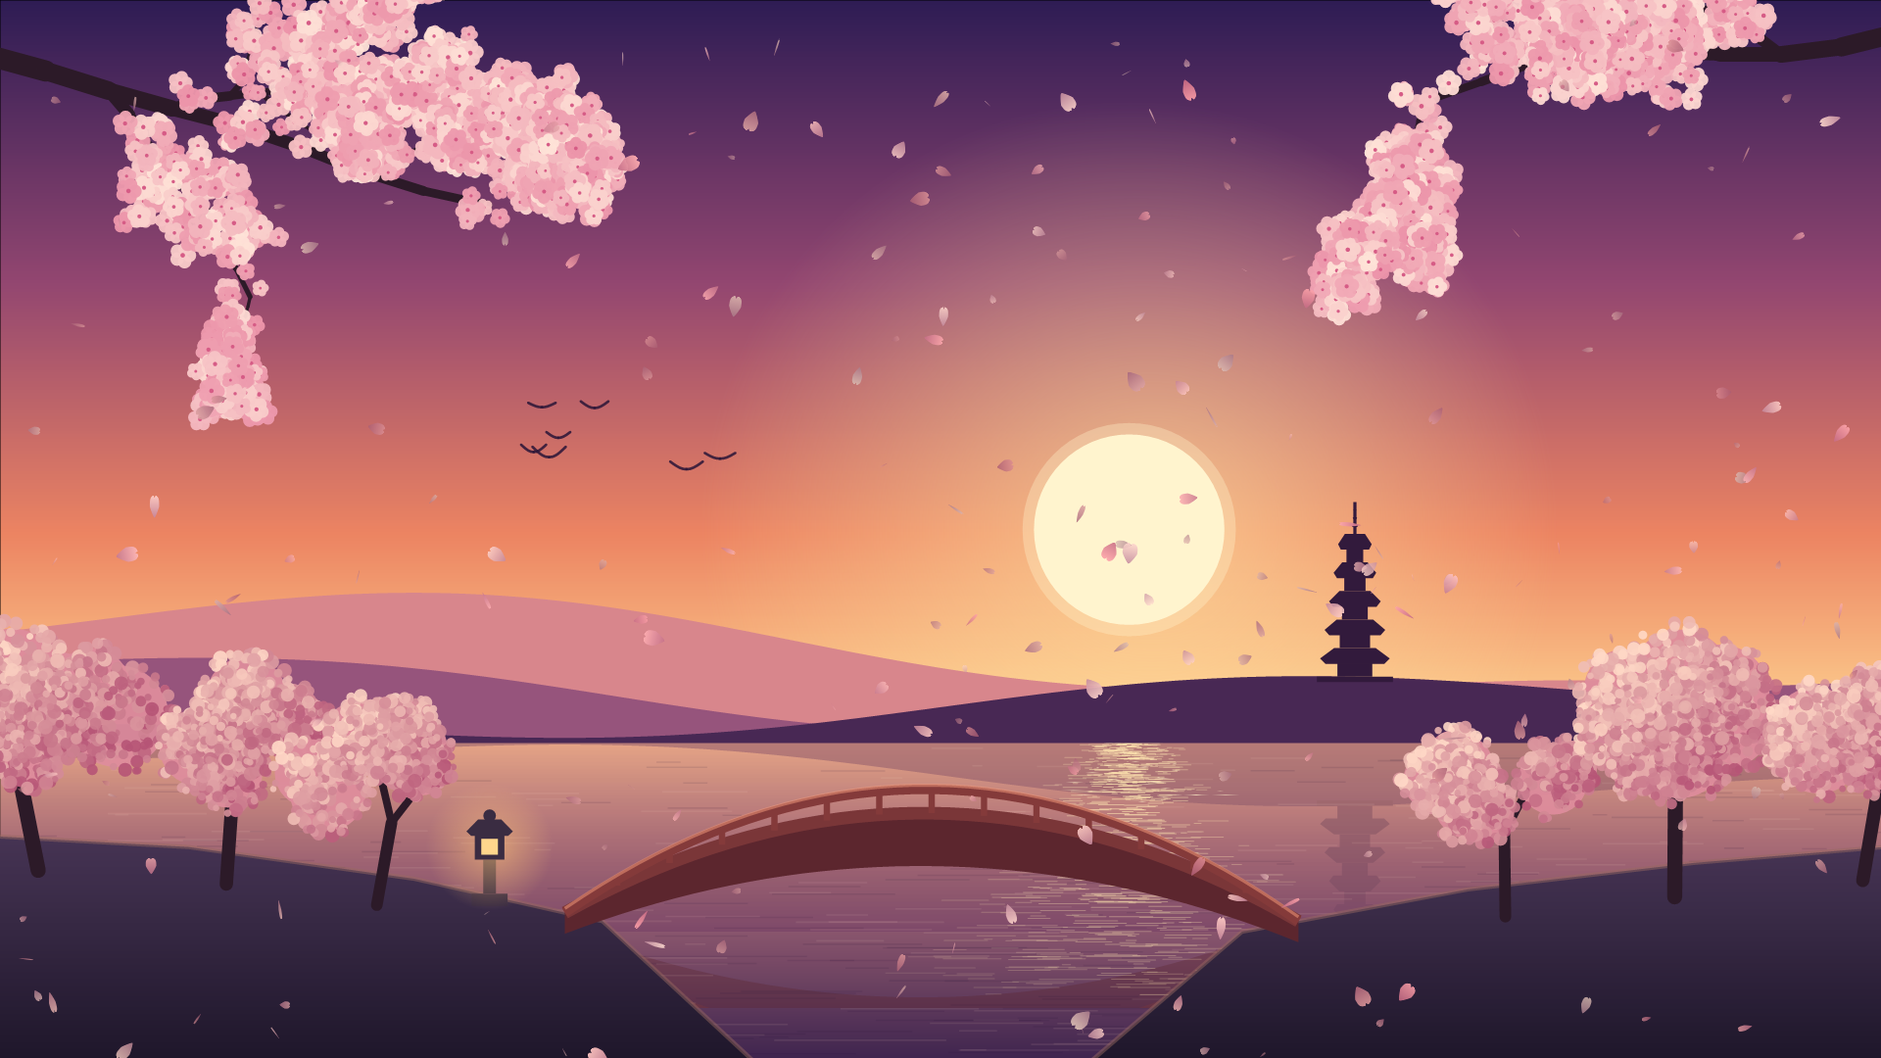
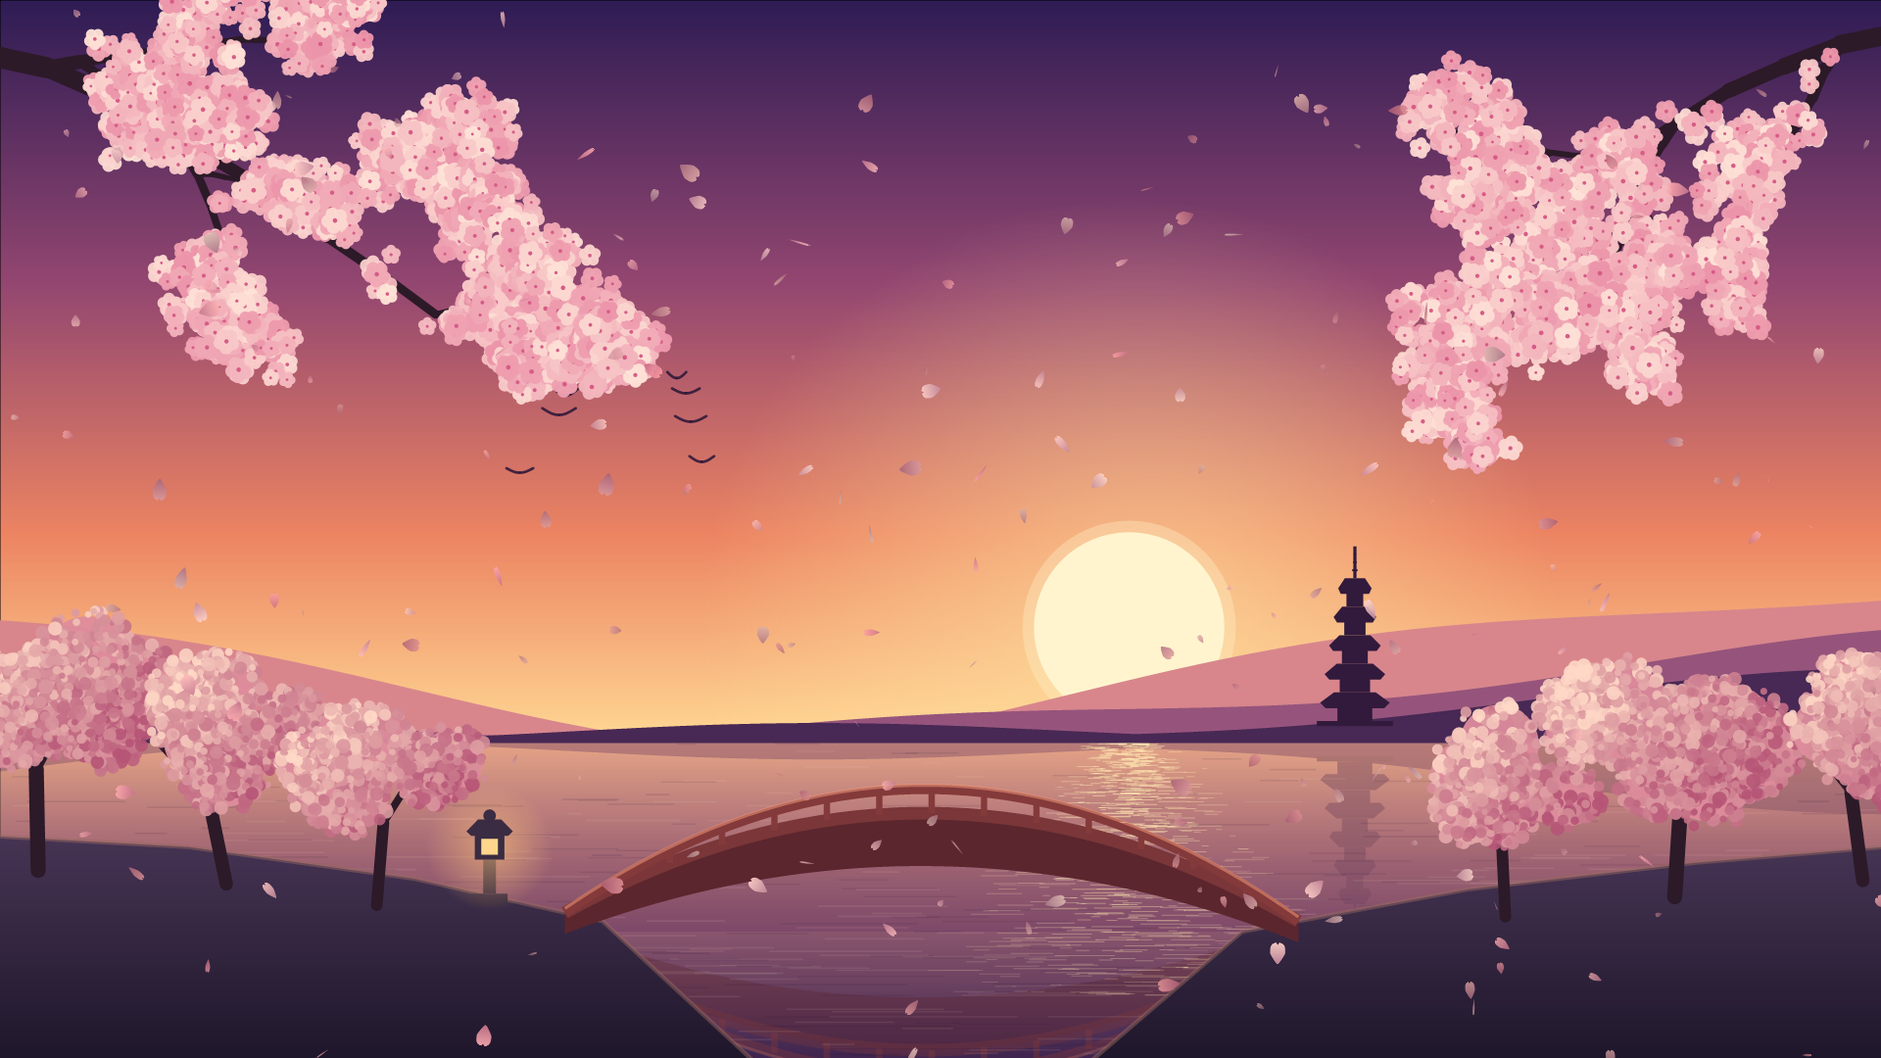
Fix the Sakura Dusk nemesis findings
Glints checked no pixels, so a golden streak could pulse on the bridge
railing for a whole session (about half of all runs at 16:9). Now each
glint lights only bright water, and the glint strip covers the whole
sun reflection instead of a thin band above the bridge. The sun is
placed on the far ridge under it, so it always sets behind the hills.
The bridge reflection is no longer cut off by a straight line. Petal
sizes, the bank rim, and glint lengths use the size unit (height, or
less on a tall screen) like the rest of the scenery. SakuraDusk is in
the solution file, the scripts' help text lists it, and the docs now
describe what the code does, with re-measured timings.

diff --git a/src/SakuraDusk/DuskPainter.cs b/src/SakuraDusk/DuskPainter.cs
@@ -39,11 +39,16 @@ internal static class DuskPainter
 
         float horizon = h * 0.70f;                       // where the water meets the hills
         float u = Math.Min(h, w * 9f / 16f);
-        var sun = new Sun(w * 0.60f, h * 0.50f, u * 0.09f);
+
+        // The hills are worked out first so the sun can rest on them: its
+        // center sits a little above the far ridge under it, so the ridge
+        // always hides the sun's lower edge, whatever shape the hills took.
+        var hills = new Hills(w, h, horizon, u, rng);
+        float sunX = w * 0.60f, sunR = u * 0.09f;
+        var sun = new Sun(sunX, hills.FarRidgeAt(sunX) - sunR * 0.55f, sunR);
 
         PaintSky(g, w, horizon, sun, u);
         PaintBirds(g, w, h, u, rng);
-        var hills = new Hills(w, h, horizon, u, rng);
         hills.PaintFarLayers(g);
         PaintWaterBase(g, w, h, horizon);
 
@@ -52,21 +57,25 @@ internal static class DuskPainter
         // once for real.
         var (left, right) = MakeGround(w, h);
         var bridge = new Bridge(new PointF(w * 0.30f, left.YAt(w * 0.30f)), new PointF(w * 0.69f, right.YAt(w * 0.69f)), h, u);
-        PaintReflected(g, w, h, horizon, () => hills.PaintNearLayer(g));
+        PaintReflected(g, w, h, horizon, (h - horizon) * 0.6f, () => hills.PaintNearLayer(g));
         WashReflection(g, w, h, horizon);
-        PaintReflected(g, w, h, bridge.WaterLine, () => bridge.Paint(g, 0.35f));
+        PaintReflected(g, w, h, bridge.WaterLine, h - bridge.WaterLine, () => bridge.Paint(g, 0.35f));
         PaintRipples(g, w, h, horizon, sun, u, rng);
         hills.PaintNearLayer(g);
 
-        left.Paint(g, Color.FromArgb(70, 52, 84), Color.FromArgb(30, 22, 42), Color.FromArgb(120, 150, 104, 96));
-        right.Paint(g, Color.FromArgb(70, 52, 84), Color.FromArgb(30, 22, 42), Color.FromArgb(120, 150, 104, 96));
+        float rim = Math.Max(1.5f, u * 0.004f);
+        left.Paint(g, Color.FromArgb(70, 52, 84), Color.FromArgb(30, 22, 42), Color.FromArgb(120, 150, 104, 96), rim);
+        right.Paint(g, Color.FromArgb(70, 52, 84), Color.FromArgb(30, 22, 42), Color.FromArgb(120, 150, 104, 96), rim);
         bridge.Paint(g, 1f);
         PaintLantern(g, w * 0.26f, left.YAt(w * 0.26f) + u * 0.01f, u);
         PaintTrees(g, w, u, left, right, rng);
         List<PointF> spots = PaintBranches(g, w, h, u, rng);
 
-        // The sun's reflection: a patch just below the horizon, under the sun.
-        var sunPath = new RectangleF(sun.X - sun.R * 1.2f, horizon + h * 0.01f, sun.R * 2.4f, bridge.Top - horizon - h * 0.02f);
+        // The sun's reflection: the strip of water under the sun, from the far
+        // shore down to where the reflection has faded out. The bridge crosses
+        // it; the scene skips any pixel that is not bright water, so a glint
+        // never lands on the railing.
+        var sunPath = new RectangleF(sun.X - sun.R * 3f, horizon + h * 0.01f, sun.R * 6f, (h - horizon) * 0.8f);
 
         return new DuskScenery { Pixels = Brushwork.ToPixels(bmp), BlossomSpots = spots, SunPath = sunPath };
     }
@@ -146,6 +155,9 @@ internal static class DuskPainter
         private readonly PointF[][] _layers = new PointF[3][];
         private readonly float _pagodaX, _pagodaBase;
         private readonly float _u;
+
+        /// <summary>The top of the farthest ridge at x, so the sun can be placed on it.</summary>
+        public float FarRidgeAt(float x) => HeightAt(0, x);
 
         public Hills(int w, int h, float horizon, float u, Random rng)
         {
@@ -249,10 +261,9 @@ internal static class DuskPainter
     // ================================================================ water
 
     /// <summary>
-    /// The pond: warm near the far shore where it mirrors the sky, cooling to
-    /// deep violet near us. Under the sun, hundreds of short bright streaks
-    /// make the sun's reflection, widening toward the viewer the way a real
-    /// sun path does. Elsewhere, faint light and dark ripples.
+    /// The pond's base color: warm near the far shore where it mirrors the
+    /// sky, cooling to deep violet near us. The streaks and ripples come later
+    /// (PaintRipples), after the reflections have been painted and washed.
     /// </summary>
     private static void PaintWaterBase(Graphics g, int w, int h, float horizon)
     {
@@ -267,7 +278,12 @@ internal static class DuskPainter
         g.FillRectangle(water, 0, horizon, w, h - horizon);
     }
 
-    /// <summary>The sun path and the ripples, painted after the reflections so the wash does not dull them.</summary>
+    /// <summary>
+    /// Under the sun, hundreds of short bright streaks make the sun's
+    /// reflection, widening toward the viewer the way a real sun path does.
+    /// Elsewhere, faint light and dark ripples. Painted after the reflections
+    /// so the wash does not dull them.
+    /// </summary>
     private static void PaintRipples(Graphics g, int w, int h, float horizon, Sun sun, float u, Random rng)
     {
         // The sun path.
@@ -301,14 +317,16 @@ internal static class DuskPainter
     /// Paints something upside down and faint into the water, as its
     /// reflection. The "transform" flips every point across the water line:
     /// Matrix(1, 0, 0, -1, 0, 2 * line) means "keep x, replace y with
-    /// (2 * line - y)". The clip keeps the reflection in the upper part of the
-    /// water, where a still pond really shows one, and Save/Restore hands the
-    /// canvas back exactly as it was.
+    /// (2 * line - y)". The clip keeps the reflection within "depth" pixels
+    /// below the water line (the hills stop partway down, where a still pond
+    /// really shows one; the bridge runs to the bottom, since the banks cover
+    /// its sides anyway), and Save/Restore hands the canvas back exactly as
+    /// it was.
     /// </summary>
-    private static void PaintReflected(Graphics g, int w, int h, float waterLine, Action paint)
+    private static void PaintReflected(Graphics g, int w, int h, float waterLine, float depth, Action paint)
     {
         GraphicsState before = g.Save();
-        g.SetClip(new RectangleF(0, waterLine, w, (h - waterLine) * 0.6f), CombineMode.Intersect);
+        g.SetClip(new RectangleF(0, waterLine, w, depth), CombineMode.Intersect);
         g.Transform = new Matrix(1, 0, 0, -1, 0, 2 * waterLine);
         paint();
         g.Restore(before);

diff --git a/src/Peckworks.Screensavers.Core/Sakura/PetalField.cs b/src/Peckworks.Screensavers.Core/Sakura/PetalField.cs
@@ -52,6 +52,7 @@ public sealed class PetalField
 
     private readonly Random _rng;
     private readonly int _w, _h;
+    private readonly float _u;   // the size unit: petal size, sway, wind and fall speed scale with it
     private readonly IReadOnlyList<PointF> _blossomSpots;
     private readonly Petal[] _petals;
     private readonly float _speedScale, _windScale, _sizeScale;
@@ -70,11 +71,18 @@ public sealed class PetalField
     /// <param name="windScale">1 = a normal breeze. 0 = still air.</param>
     /// <param name="sizeScale">1 = normal petals.</param>
     /// <param name="blossomSpots">Places on the backdrop (blossom clusters) that petals can let go from. May be empty.</param>
+    /// <param name="sizeUnit">
+    /// What petal sizes and speeds are measured against. Leave it out to use the
+    /// height. A tall (portrait) screen should pass something smaller, such as
+    /// min(height, width * 9 / 16), so the petals stay in proportion to a
+    /// backdrop that was scaled the same way.
+    /// </param>
     public PetalField(int width, int height, int count, float speedScale, float windScale, float sizeScale,
-                      IReadOnlyList<PointF> blossomSpots, Random rng)
+                      IReadOnlyList<PointF> blossomSpots, Random rng, float? sizeUnit = null)
     {
         _w = width;
         _h = height;
+        _u = sizeUnit ?? height;
         _rng = rng;
         _speedScale = speedScale;
         _windScale = windScale;
@@ -107,14 +115,14 @@ public sealed class PetalField
     /// <summary>Give a petal a fresh random personality and a starting spot.</summary>
     private void Respawn(ref Petal p, bool scatterOnScreen)
     {
-        p.Size = Math.Max(3f, _h * 0.013f * (0.45f + 1.2f * p.Z) * _sizeScale);
+        p.Size = Math.Max(3f, _u * 0.013f * (0.45f + 1.2f * p.Z) * _sizeScale);
         p.Angle = (float)(_rng.NextDouble() * Math.PI * 2);
         p.Spin = ((float)_rng.NextDouble() - 0.5f) * 1.6f;
         p.Flip = (float)(_rng.NextDouble() * Math.PI * 2);
         p.FlipSpeed = 0.8f + 2.2f * (float)_rng.NextDouble();
         p.Sway = (float)(_rng.NextDouble() * Math.PI * 2);
         p.SwayFreq = 0.5f + 1.1f * (float)_rng.NextDouble();
-        p.SwayAmp = _h * (0.01f + 0.025f * (float)_rng.NextDouble()) * (0.5f + p.Z);
+        p.SwayAmp = _u * (0.01f + 0.025f * (float)_rng.NextDouble()) * (0.5f + p.Z);
         p.Pink = (float)_rng.NextDouble();
 
         if (scatterOnScreen)
@@ -154,7 +162,7 @@ public sealed class PetalField
         // The breeze: two slow waves added together, so gusts rise and fall on
         // an irregular rhythm instead of a steady beat. Mostly blowing right,
         // occasionally stilling almost to nothing.
-        float wind = _h * 0.03f * _windScale *
+        float wind = _u * 0.03f * _windScale *
                      (0.55f + 0.5f * MathF.Sin(_time * 0.11f) + 0.3f * MathF.Sin(_time * 0.043f + 2f));
 
         float margin = _h * 0.1f;
@@ -170,7 +178,7 @@ public sealed class PetalField
             // Falling: nearer petals fall faster (parallax), and petals falling
             // edge-on (|cos(flip)| near 0) drop a bit quicker than face-on ones.
             float faceOn = MathF.Abs(MathF.Cos(p.Flip));
-            float fall = _h * 0.045f * (0.45f + 0.75f * p.Z) * _speedScale * (0.8f + 0.45f * (1 - faceOn));
+            float fall = _u * 0.045f * (0.45f + 0.75f * p.Z) * _speedScale * (0.8f + 0.45f * (1 - faceOn));
 
             // Sideways: the shared breeze (felt more by near petals), plus this
             // petal's own swing. The swing's speed is the rate of change of

diff --git a/src/SakuraDusk/SakuraDuskScene.cs b/src/SakuraDusk/SakuraDuskScene.cs
@@ -31,21 +31,24 @@ internal sealed class SakuraDuskScene : IScreensaverScene
     public SakuraDuskScene(int width, int height, SakuraDuskSettings settings)
     {
         _scenery = DuskPainter.Paint(width, height, _rng);
+        float u = Math.Min(height, width * 9f / 16f);   // the size unit: height, or less on a tall screen
 
         _petals = new PetalField(width, height,
             PetalField.CountFor(width, height, settings.DensityPercent),
             settings.FallSpeedPercent / 100f, settings.WindPercent / 100f, settings.PetalSizePercent / 100f,
-            _scenery.BlossomSpots, _rng)
+            _scenery.BlossomSpots, _rng, sizeUnit: u)
         {
             Tint = (1f, 0.90f, 0.84f),   // evening light: a little less green and blue, so the petals warm up
         };
 
         // ---- Glints in the sun's reflection ----
-        // The painter tells us the patch of water the sun lights up. Glints
-        // are scattered only there, denser and shorter near the far edge (far
-        // away) and longer near the bottom (close to us).
+        // The painter tells us the strip of water the sun lights up. Glints
+        // are scattered there, bunched under the sun, shorter near the far
+        // edge (far away) and longer near the bottom (close to us). The bridge
+        // crosses the strip, so DrawGlint checks every pixel and only lights
+        // bright water.
         RectangleF sun = _scenery.SunPath;
-        _glints = new Glint[90];
+        _glints = new Glint[160];
         for (int i = 0; i < _glints.Length; i++)
         {
             float depth = (float)Math.Pow(_rng.NextDouble(), 0.8);   // 0 = far edge of the patch, 1 = near edge
@@ -55,7 +58,7 @@ internal sealed class SakuraDuskScene : IScreensaverScene
             {
                 X = (int)(sun.X + sun.Width * (0.5f + 0.5f * across)),
                 Y = (int)(sun.Y + depth * sun.Height),
-                Length = Math.Max(2, (int)(height * (0.004f + 0.02f * (float)_rng.NextDouble()) * (0.3f + depth))),
+                Length = Math.Max(2, (int)(u * (0.004f + 0.02f * (float)_rng.NextDouble()) * (0.3f + depth))),
                 Phase = (float)(_rng.NextDouble() * Math.PI * 2),
                 Speed = 0.8f + 2.2f * (float)_rng.NextDouble(),
             };
@@ -87,7 +90,12 @@ internal sealed class SakuraDuskScene : IScreensaverScene
         _petals.Draw(fb);
     }
 
-    /// <summary>A short horizontal streak of warm light, brightest in the middle.</summary>
+    /// <summary>
+    /// A short horizontal streak of warm light, brightest in the middle. Only
+    /// lands on bright, warm water pixels: the bridge's wood, the banks, and
+    /// the deep water near the bottom are all too dark to pass the test, so a
+    /// glint can never sit on the railing.
+    /// </summary>
     private static void DrawGlint(FrameBuffer fb, in Glint gl, float alpha)
     {
         if (gl.Y < 0 || gl.Y >= fb.Height) return;
@@ -96,6 +104,9 @@ internal sealed class SakuraDuskScene : IScreensaverScene
         {
             int x = gl.X + i;
             if (x < 0 || x >= fb.Width) continue;
+            uint bg = fb.Pixels[row + x];
+            int r = (int)((bg >> 16) & 0xFF), g = (int)((bg >> 8) & 0xFF);
+            if (r < 150 || g < 95) continue;               // not sunlit water
             float t = 1 - MathF.Abs(i / (float)gl.Length * 2 - 1);
             fb.Pixels[row + x] = FrameBuffer.Blend(fb.Pixels[row + x], 255, 240, 200, alpha * t);
         }

diff --git a/src/Sakura/SceneryPainter.cs b/src/Sakura/SceneryPainter.cs
@@ -66,7 +66,7 @@ internal static class SceneryPainter
         PaintLake(g, w, h, horizon, fuji, rng);
         PaintShore(g, w, h, horizon, rng);
         var (leftBank, rightHill) = MakeGround(w, h);
-        PaintGround(g, leftBank, rightHill);
+        PaintGround(g, u, leftBank, rightHill);
         PaintGrove(g, w, h, u, leftBank, rightHill, rng);
         List<PointF> spots = PaintBranches(g, w, h, u, rng);
 
@@ -371,10 +371,11 @@ internal static class SceneryPainter
     }
 
     /// <summary>Paints the two banks: a dark earthy one on the left, a grassy one on the right.</summary>
-    private static void PaintGround(Graphics g, Bank left, Bank right)
+    private static void PaintGround(Graphics g, float u, Bank left, Bank right)
     {
-        left.Paint(g, Color.FromArgb(74, 86, 70), Color.FromArgb(40, 46, 42), Color.FromArgb(120, 104, 122, 92));
-        right.Paint(g, Color.FromArgb(134, 146, 88), Color.FromArgb(82, 92, 56), Color.FromArgb(140, 168, 182, 112));
+        float rim = Math.Max(1.5f, u * 0.004f);
+        left.Paint(g, Color.FromArgb(74, 86, 70), Color.FromArgb(40, 46, 42), Color.FromArgb(120, 104, 122, 92), rim);
+        right.Paint(g, Color.FromArgb(134, 146, 88), Color.FromArgb(82, 92, 56), Color.FromArgb(140, 168, 182, 112), rim);
     }
 
     /// <summary>

diff --git a/src/Peckworks.Screensavers.Core/Sakura/Brushwork.cs b/src/Peckworks.Screensavers.Core/Sakura/Brushwork.cs
@@ -53,12 +53,13 @@ public sealed class Bank
     /// bottom of the screen) with a thin lighter rim along the top edge, so
     /// it reads as a rounded bank rather than a flat cutout.
     /// </summary>
-    public void Paint(Graphics g, Color top, Color bottom, Color rim)
+    /// <param name="rimWidth">The rim line's thickness in pixels (about 0.4% of the size unit reads well).</param>
+    public void Paint(Graphics g, Color top, Color bottom, Color rim, float rimWidth)
     {
         float edgeTop = _edge.Min(p => p.Y);
         using (var brush = new LinearGradientBrush(new PointF(0, edgeTop - 1), new PointF(0, _h + 1), top, bottom))
             g.FillPolygon(brush, Polygon());
-        using var pen = new Pen(rim, Math.Max(1.5f, _h * 0.004f)) { LineJoin = LineJoin.Round };
+        using var pen = new Pen(rim, rimWidth) { LineJoin = LineJoin.Round };
         g.DrawLines(pen, _edge);
     }
 }

diff --git a/src/Sakura/SakuraScene.cs b/src/Sakura/SakuraScene.cs
@@ -32,11 +32,12 @@ internal sealed class SakuraScene : IScreensaverScene
     public SakuraScene(int width, int height, SakuraSettings settings)
     {
         _scenery = SceneryPainter.Paint(width, height, _rng);
+        float u = Math.Min(height, width * 9f / 16f);   // the size unit: height, or less on a tall screen
 
         _petals = new PetalField(width, height,
             PetalField.CountFor(width, height, settings.DensityPercent),
             settings.FallSpeedPercent / 100f, settings.WindPercent / 100f, settings.PetalSizePercent / 100f,
-            _scenery.BlossomSpots, _rng);
+            _scenery.BlossomSpots, _rng, sizeUnit: u);
 
         // ---- Glints on the lake ----
         _glints = new Glint[120];

diff --git a/docs/HOW_SCREENSAVERS_WORK.md b/docs/HOW_SCREENSAVERS_WORK.md
@@ -207,13 +207,15 @@ simple no matter how the petal is turned.
 **Sakura Dusk** (`DuskPainter.cs`) is the same theater with a different backdrop: a sunset sky
 (a gradient from violet to warm yellow, with a "path gradient" glow around the sun that is
 strongest at its center and fades to nothing at its edge), three ranges of hills made from sine
-waves added together, a pagoda silhouette, a pond that mirrors the hills and the bridge (painted
-again upside down, clipped to the near water, then washed back toward the water color), an
-arched bridge whose deck is a curve bowed upward by a steering point above its middle, and a
-stone lantern with a glowing window. The shared pieces (banks, trunks, blossoms, branches) come
+waves added together, a pagoda silhouette, a pond that mirrors the nearest hills and the pagoda
+(painted again upside down, clipped to the near water, then washed back toward the water color)
+and, more faintly, the bridge, an arched bridge whose deck is a curve bowed upward by a steering
+point above its middle, and a stone lantern with a glowing window. The sun is placed on the far
+ridge under it, so it always sets behind the hills whatever shape they took. The shared pieces (banks, trunks, blossoms, branches) come
 from `Core/Sakura/Brushwork.cs`, so both scenes have the same hand. The petals get a warm tint,
 and the glints are golden and live only in the sun's reflection, which the painter hands over
-as a rectangle.
+as a rectangle; each glint also checks the pixels under it and lights only bright water, so none
+ever lands on the bridge that crosses the reflection.
 
 ## 9. High-DPI screens
 
@@ -244,14 +246,17 @@ reopen it. `install.ps1` does that for you and then checks the list.
 
 ## 11. Making the next screensaver
 
-1. Copy the `src/Sakura` folder (or `src/SakuraDusk`, the smaller one) and rename the folder,
-   the `.csproj`, and the names inside it.
+1. Copy the `src/Sakura` folder (or `src/SakuraDusk`) and rename the folder, the `.csproj`,
+   and the names inside it.
 2. Replace the scene with your own class that implements `IScreensaverScene`
    (`Update` + `Render`).
 3. Declare your knobs in a settings class that inherits `ScreensaverSettings`
    (`Add("Speed", ...)` once per knob). The settings dialog builds a slider for each one.
 4. Update the definition class in `Program.cs` (name, scene, dialog colors).
-5. Want falling petals over your own painting? Build a `PetalField` and call its `Update` and
+5. Add the project to the solution file (`PeckworksScreensavers.slnx`) next to the others, so
+   `dotnet build PeckworksScreensavers.slnx` compiles it and a change to the shared engine that
+   breaks it shows up right away.
+6. Want falling petals over your own painting? Build a `PetalField` and call its `Update` and
    `Draw`, exactly as `SakuraDuskScene.cs` does.
 
 `scripts/publish.ps1` and `install.ps1` find every screensaver folder under `src\` on their own.

diff --git a/README.md b/README.md
@@ -31,13 +31,13 @@ Settings: number of petals, fall speed, breeze, petal size.
 ## Sakura Dusk
 
 The same slowly falling petals over a different painting: a pond at sunset, with a low sun
-resting on hazy hills, a pagoda on the far shore, an arched wooden footbridge, a stone lantern
-with a glowing window, cherry trees on both banks, and a small flock of birds.
+setting behind hazy hills, a pagoda on the far shore, an arched wooden footbridge, a stone
+lantern with a glowing window, cherry trees on both banks, and a small flock of birds.
 
 ![Sakura Dusk](docs/images/sakura-dusk.png)
 
 - Petals are tinted by the evening light, and golden glints twinkle in the sun's reflection.
-- The hills, pagoda, and bridge are mirrored faintly in the still water.
+- The nearest hills, the pagoda, and the bridge are mirrored faintly in the still water.
 - Same four settings as Sakura, saved separately.
 
 Sakura and Sakura Dusk share one petal engine and one set of painting brushes (banks, trunks,
@@ -117,8 +117,8 @@ Time per frame (update + render):
 
 | Resolution | Matrix Rain | Sakura      | Sakura Dusk |
 |------------|-------------|-------------|-------------|
-| 1920x1080  | about 10 ms | about 3 ms  | about 3 ms  |
-| 3840x2160  | about 29 ms | about 10 ms | about 10 ms |
+| 1920x1080  | about 10 ms | about 4 ms  | about 4 ms  |
+| 3840x2160  | about 29 ms | about 11 ms | about 12 ms |
 
 Under about 16 ms means the full 60 frames per second. Matrix Rain at 4K runs at about 34, above
 the film's own 24.
